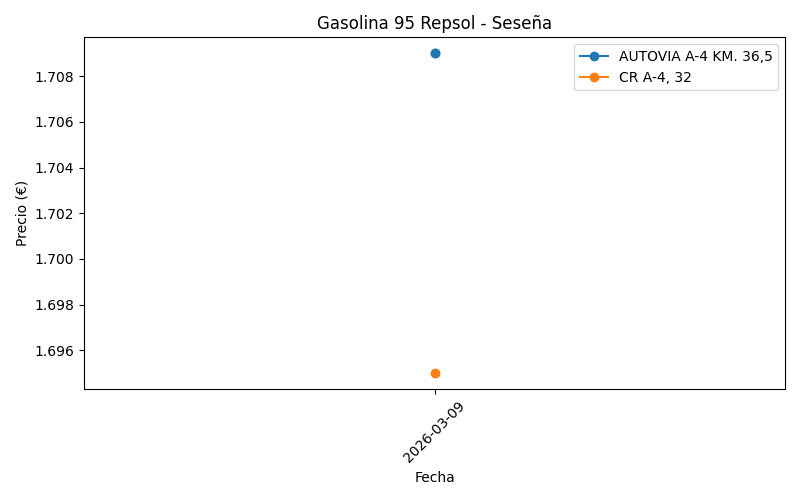
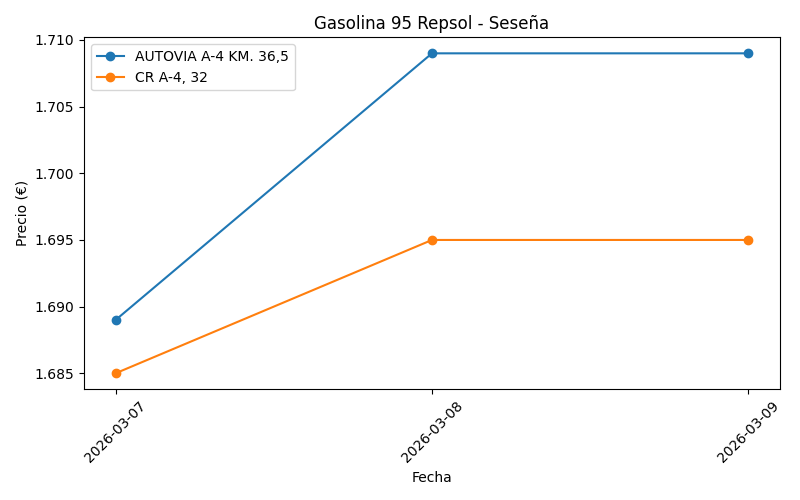
Actualizar precios gasolina

diff --git a/docs/js/script.js b/docs/js/script.js
@@ -1,1 +1,1 @@
-document.getElementById("barata").textContent = "💰 REPSOL - CR A-4, 32: 1.695 € ¡Mejor precio!";
+document.getElementById("barata").textContent = "💰 REPSOL - CR A-4, 32: 1.685 € ¡Mejor precio!";
